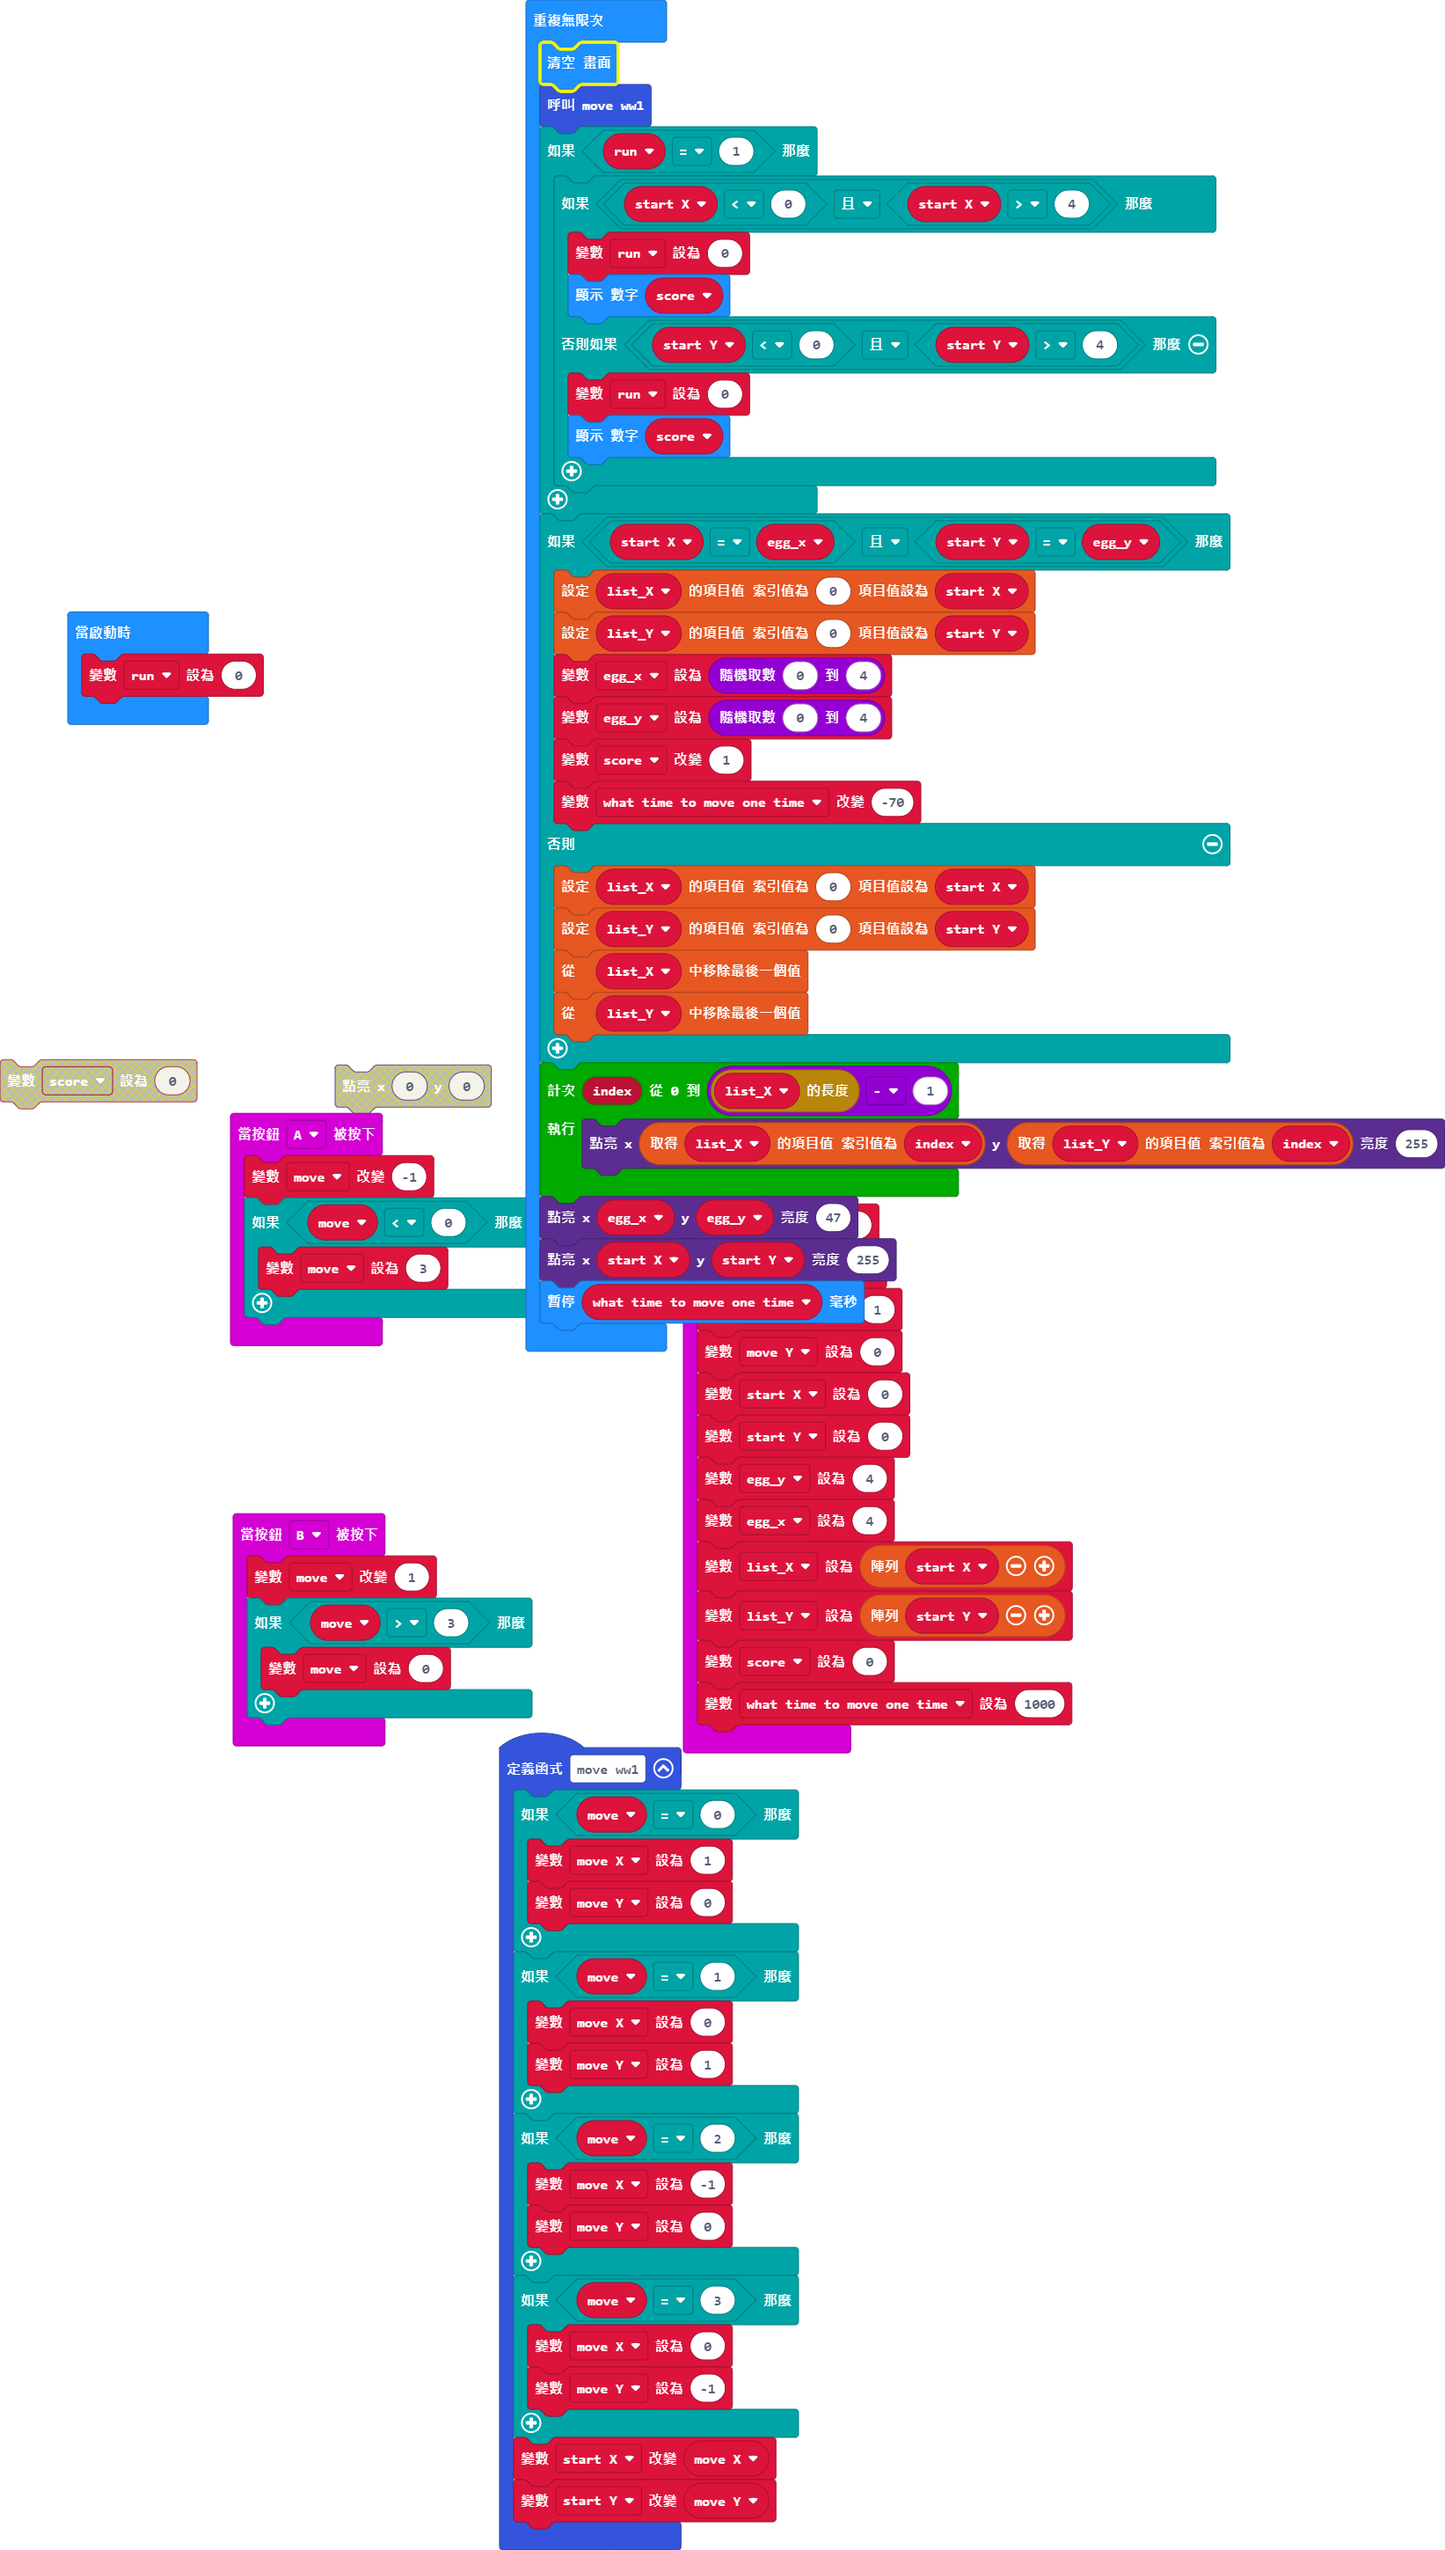
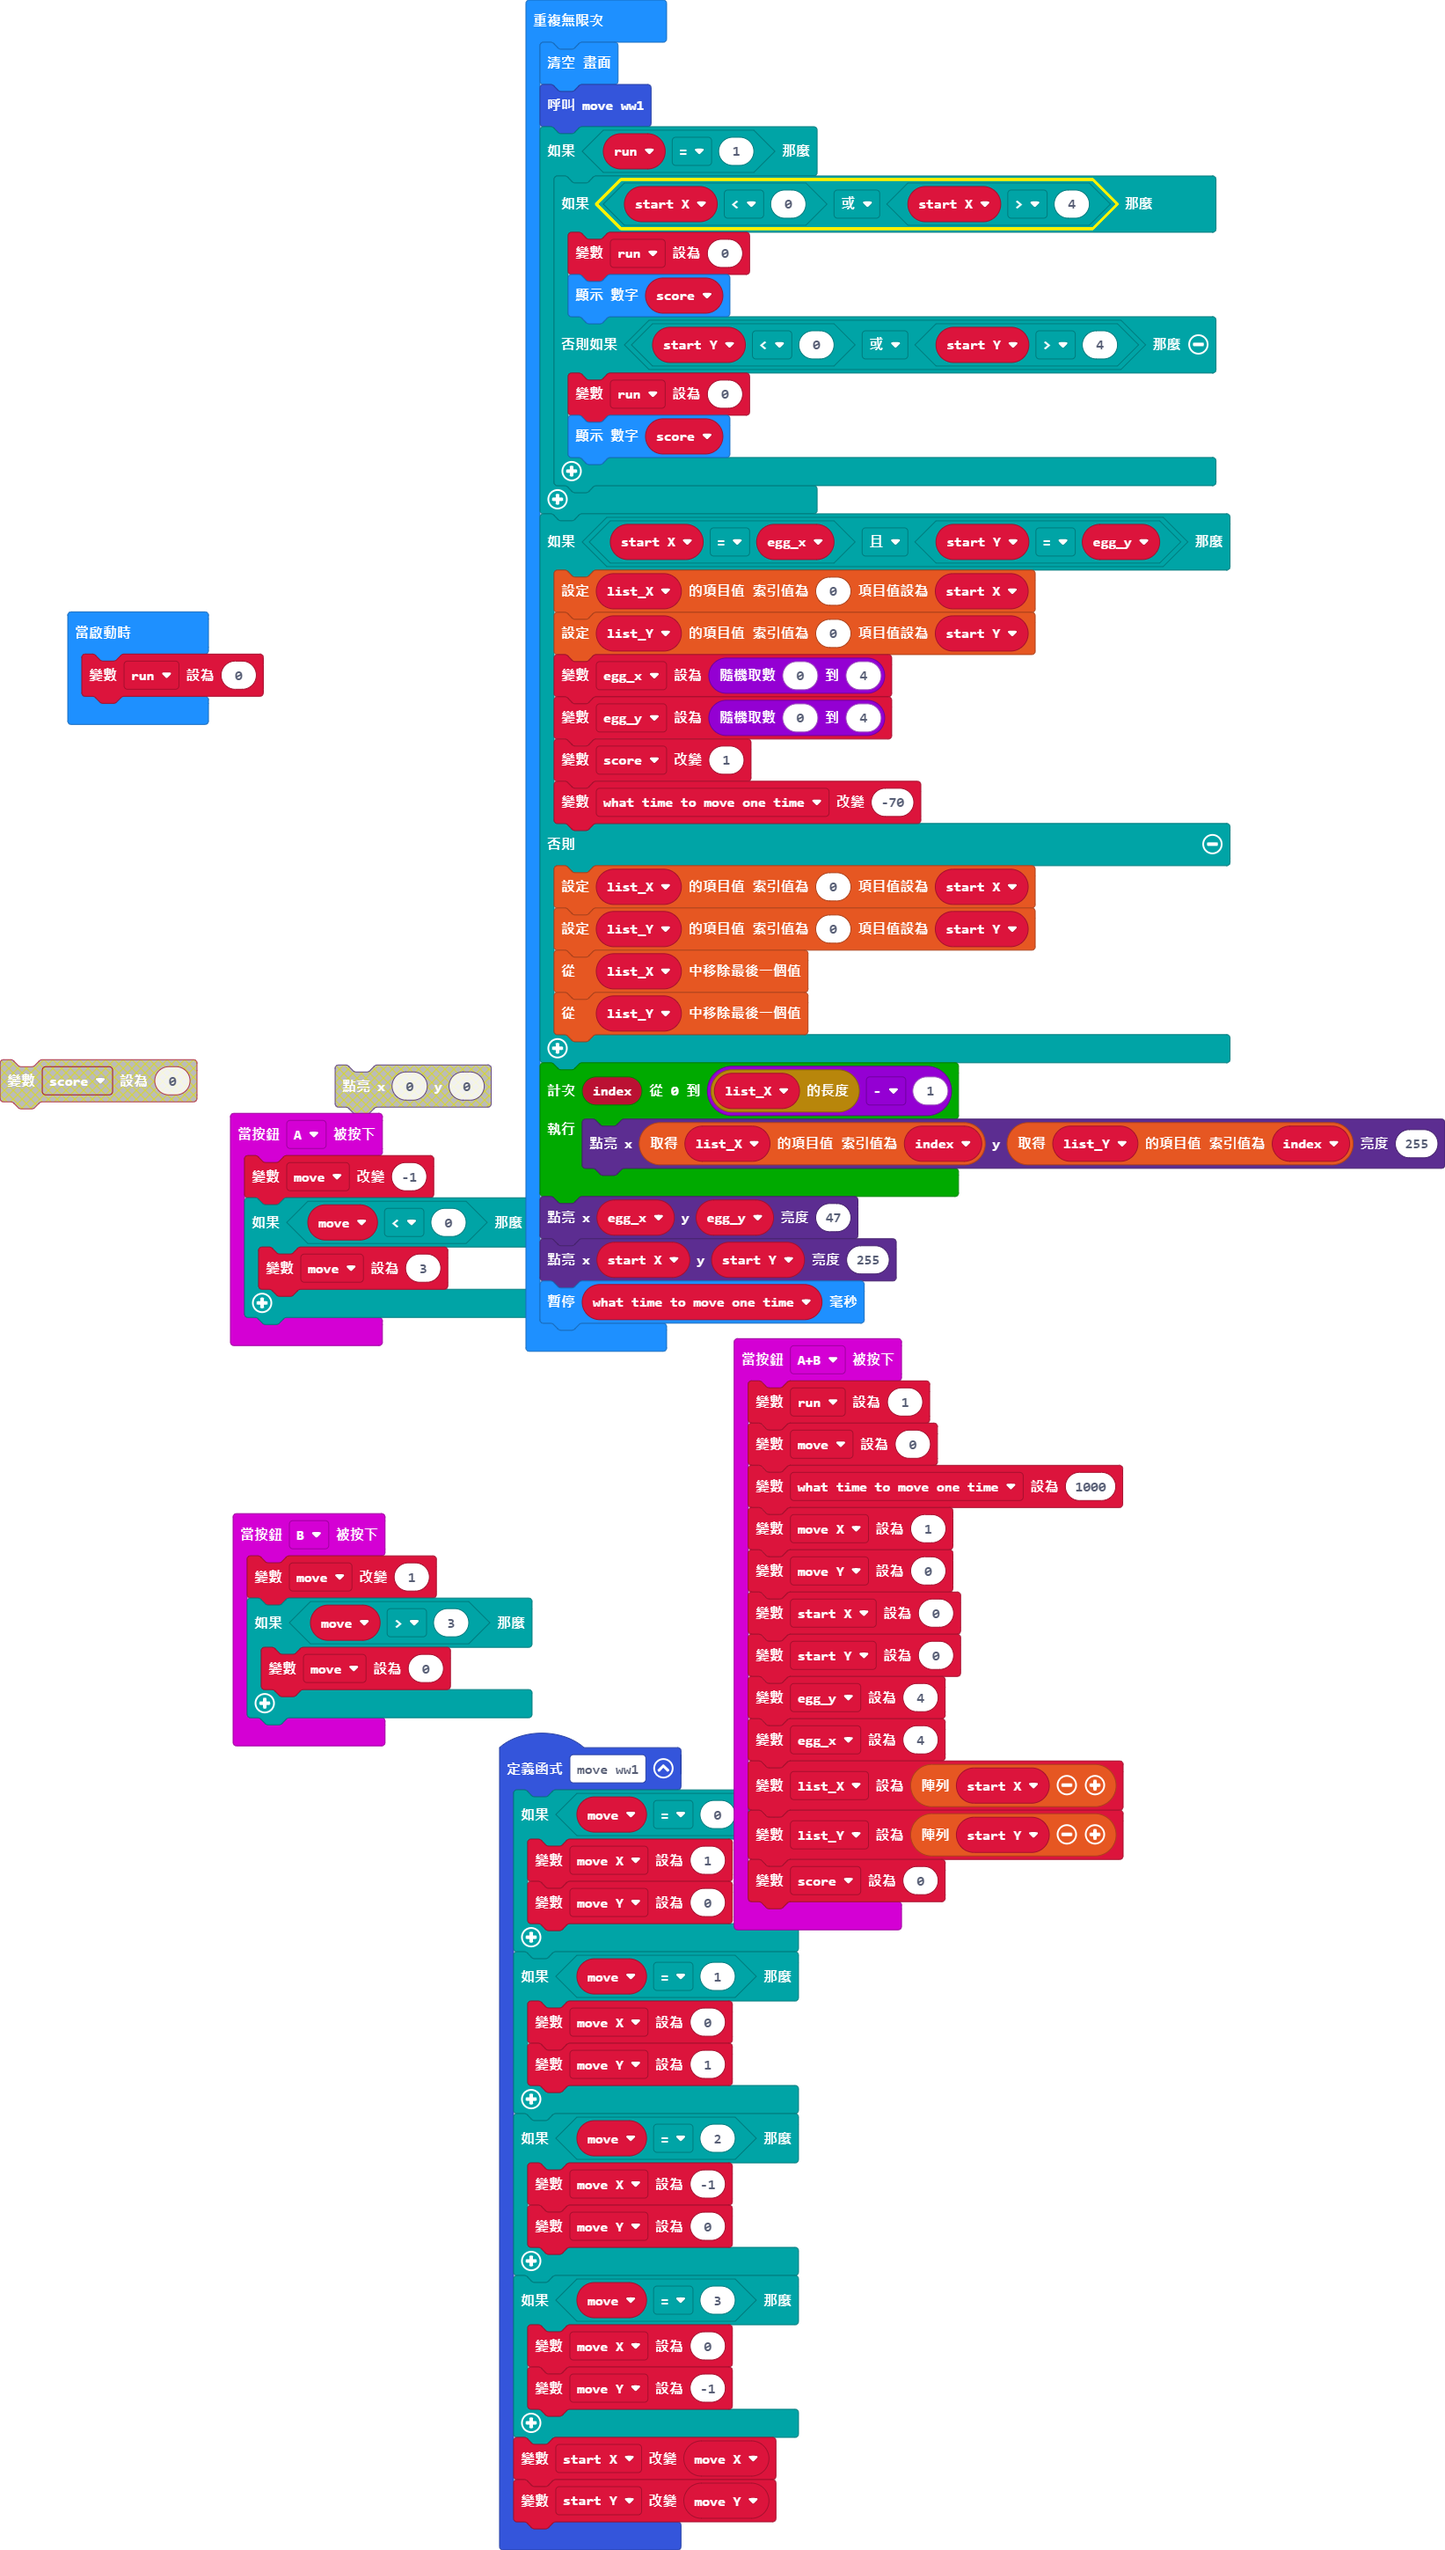
new

Changed region(s): [[0.4656, 0.4658, 0.776, 0.7764], [0.745, 0.0621, 0.776, 0.0932], [0.5587, 0.0621, 0.5898, 0.0932]]

diff --git a/main.ts b/main.ts
@@ -27,6 +27,7 @@ input.onButtonPressed(Button.A, function () {
 input.onButtonPressed(Button.AB, function () {
     run = 1
     move = 0
+    what_time_to_move_one_time = 1000
     move_X = 1
     move_Y = 0
     start_X = 0
@@ -36,7 +37,6 @@ input.onButtonPressed(Button.AB, function () {
     list_X = [start_X]
     list_Y = [start_Y]
     score = 0
-    what_time_to_move_one_time = 1000
 })
 input.onButtonPressed(Button.B, function () {
     move += 1
@@ -44,12 +44,12 @@ input.onButtonPressed(Button.B, function () {
         move = 0
     }
 })
-let what_time_to_move_one_time = 0
 let score = 0
 let list_Y: number[] = []
 let list_X: number[] = []
 let egg_x = 0
 let egg_y = 0
+let what_time_to_move_one_time = 0
 let start_Y = 0
 let start_X = 0
 let move_Y = 0
@@ -61,10 +61,10 @@ basic.forever(function () {
     basic.clearScreen()
     move_ww1()
     if (run == 1) {
-        if (start_X < 0 && start_X > 4) {
+        if (start_X < 0 || start_X > 4) {
             run = 0
             basic.showNumber(score)
-        } else if (start_Y < 0 && start_Y > 4) {
+        } else if (start_Y < 0 || start_Y > 4) {
             run = 0
             basic.showNumber(score)
         }
